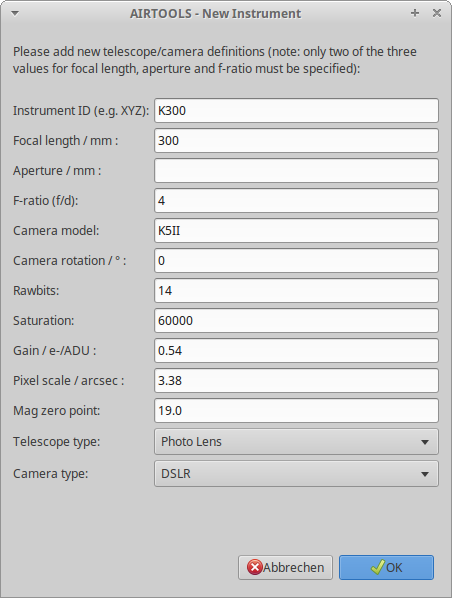
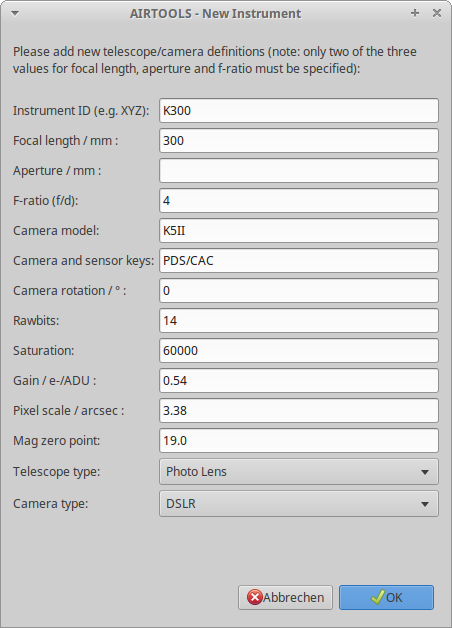
documentation update due to added support of Ubuntu 18.04

diff --git a/doc/manual-de.html b/doc/manual-de.html
@@ -5,14 +5,14 @@
   <meta http-equiv="Content-Style-Type" content="text/css" />
   <meta name="generator" content="pandoc" />
   <meta name="author" content="Thomas Lehmann" />
-  <title>Anleitung zur Kometen-Fotometrie mit AIRTOOLS</title>
+  <title>Anleitung zur Kometen-Fotometrie mit AIRTOOLS (v2.2)</title>
   <style type="text/css">code{white-space: pre;}</style>
 </head>
 <body>
 <div id="header">
-<h1 class="title">Anleitung zur Kometen-Fotometrie mit AIRTOOLS</h1>
+<h1 class="title">Anleitung zur Kometen-Fotometrie mit AIRTOOLS (v2.2)</h1>
 <h2 class="author">Thomas Lehmann</h2>
-<h3 class="date">Januar 2018</h3>
+<h3 class="date">Juni 2018</h3>
 </div>
 <div id="TOC">
 <ul>
@@ -101,10 +101,11 @@
 <h3 id="linux-installations-medium"><span class="header-section-number">3.1.2</span> Linux Installations-Medium</h3>
 <p>Linux gibt es in sehr unterschiedlichen Ausprägungen, wobei das Betriebssystem und ein großer Teil von Anwendungssoftware gebündelt als sogenannte Distribution angeboten wird. Prinzipiell lässt sich die AIRTOOLS-Software auf einer beliebigen Linux-Distribution installieren, da alle benötigten Komponenten auch im Quellcode verfügbar sind. Um jedoch den Installationsaufwand zu minimieren, wird die Verwendung einer Linux-Version empfohlen, für die alle Programme als Binärpakete verfügbar sind (sie sind somit kompiliert und leicht installierbar bzw. deinstallierbar). Dies sind zur Zeit die 64bit Versionen von</p>
 <ul>
+<li>Ubuntu 18.04 “Bionic” (und Varianten wie Xubuntu)</li>
 <li>Ubuntu 16.04 “Xenial” (und Varianten wie Xubuntu)</li>
 <li>Debian 9 “Stretch”</li>
 </ul>
-<p>In der weiteren Anleitung wird Xubuntu Linux (<a href="https://xubuntu.org/" class="uri">https://xubuntu.org/</a>) in der Version 16.04 LTS (64bit) verwendet. Sie müssen die entsprechende ISO-Image Datei aus dem Download-Bereich herunterladen (aktuell z.B. <a href="http://ftp.uni-kl.de/pub/linux/ubuntu-dvd/xubuntu/releases/16.04/release/xubuntu-16.04.3-desktop-amd64.iso">xubuntu-16.04.3-desktop-amd64.iso</a>).</p>
+<p>In der weiteren Anleitung wird Xubuntu Linux (<a href="https://xubuntu.org/" class="uri">https://xubuntu.org/</a>) in der Version 16.04 LTS (64bit) verwendet. Sie müssen die entsprechende ISO-Image Datei aus dem Download-Bereich herunterladen (aktuell z.B. <a href="http://ftp.uni-kl.de/pub/linux/ubuntu-dvd/xubuntu/releases/16.04/release/xubuntu-16.04.4-desktop-amd64.iso">xubuntu-16.04.4-desktop-amd64.iso</a>).</p>
 <h3 id="linux-live-system-als-virtualbox-vm"><span class="header-section-number">3.1.3</span> Linux Live-System als VirtualBox VM</h3>
 <p>Die meisten (großen) Linux-Distributionen bieten ihre Software mittlerweise als Live-System an, d.h. das Betriebssystem und die Anwendungen befinden sich auf einem bootbaren Medium (CD, DVD, ISO-Datei). Nach dem Booten dieses Mediums ist das Linux Live-System voll funktionsfähig und kann beliebig getestet werden. Bei Bedarf kann das laufende System auf eine Festplatte installiert werden.</p>
 <p>So funktioniert das auch mit der Xubuntu ISO-Datei, die in einer VirtualBox VM direkt als Bootmedium verwendet werden kann. Dazu sind folgende Schritte notwendig:</p>
@@ -283,6 +284,9 @@
 </dd>
 <dt>Camera model:</dt>
 <dd>Modellbezeichnung der Kamera.
+</dd>
+<dt>Camera and Sensor keys:</dt>
+<dd>ICQ Schlüssel für <a href="https://cobs.si/help?page=ccd_type">Kamera</a> und <a href="https://cobs.si/help?page=ccd_chip">Sensor</a>, getrennt durch das Zeichen /, z.B. für Canon 6D: CDS/CFC.
 </dd>
 <dt>Camera rotation:</dt>
 <dd>Rotationswinkel der Kamera in Grad (Norden oben = 0°, Norden links = 90°)

diff --git a/doc/manual-de.md b/doc/manual-de.md
@@ -1,5 +1,5 @@
-Anleitung zur Kometen-Fotometrie mit AIRTOOLS
-=============================================
+Anleitung zur Kometen-Fotometrie mit AIRTOOLS (v2.2)
+====================================================
 
 -   [Einführung](#einführung)
 -   [Kometen-Aufnahmen](#kometen-aufnahmen)
@@ -107,10 +107,11 @@ VirtualBox (<http://www.virtualbox.org>) ist eine ausgereifte, frei erhältliche
 
 Linux gibt es in sehr unterschiedlichen Ausprägungen, wobei das Betriebssystem und ein großer Teil von Anwendungssoftware gebündelt als sogenannte Distribution angeboten wird. Prinzipiell lässt sich die AIRTOOLS-Software auf einer beliebigen Linux-Distribution installieren, da alle benötigten Komponenten auch im Quellcode verfügbar sind. Um jedoch den Installationsaufwand zu minimieren, wird die Verwendung einer Linux-Version empfohlen, für die alle Programme als Binärpakete verfügbar sind (sie sind somit kompiliert und leicht installierbar bzw. deinstallierbar). Dies sind zur Zeit die 64bit Versionen von
 
+-   Ubuntu 18.04 “Bionic” (und Varianten wie Xubuntu)
 -   Ubuntu 16.04 “Xenial” (und Varianten wie Xubuntu)
 -   Debian 9 “Stretch”
 
-In der weiteren Anleitung wird Xubuntu Linux (<https://xubuntu.org/>) in der Version 16.04 LTS (64bit) verwendet. Sie müssen die entsprechende ISO-Image Datei aus dem Download-Bereich herunterladen (aktuell z.B. [xubuntu-16.04.3-desktop-amd64.iso](http://ftp.uni-kl.de/pub/linux/ubuntu-dvd/xubuntu/releases/16.04/release/xubuntu-16.04.3-desktop-amd64.iso)).
+In der weiteren Anleitung wird Xubuntu Linux (<https://xubuntu.org/>) in der Version 16.04 LTS (64bit) verwendet. Sie müssen die entsprechende ISO-Image Datei aus dem Download-Bereich herunterladen (aktuell z.B. [xubuntu-16.04.4-desktop-amd64.iso](http://ftp.uni-kl.de/pub/linux/ubuntu-dvd/xubuntu/releases/16.04/release/xubuntu-16.04.4-desktop-amd64.iso)).
 
 ### Linux Live-System als VirtualBox VM
 
@@ -297,6 +298,9 @@ F-ratio:
 
 Camera model:  
 Modellbezeichnung der Kamera.
+
+Camera and Sensor keys:  
+ICQ Schlüssel für [Kamera](https://cobs.si/help?page=ccd_type) und [Sensor](https://cobs.si/help?page=ccd_chip), getrennt durch das Zeichen /, z.B. für Canon 6D: CDS/CFC.
 
 Camera rotation:  
 Rotationswinkel der Kamera in Grad (Norden oben = 0°, Norden links = 90°)
